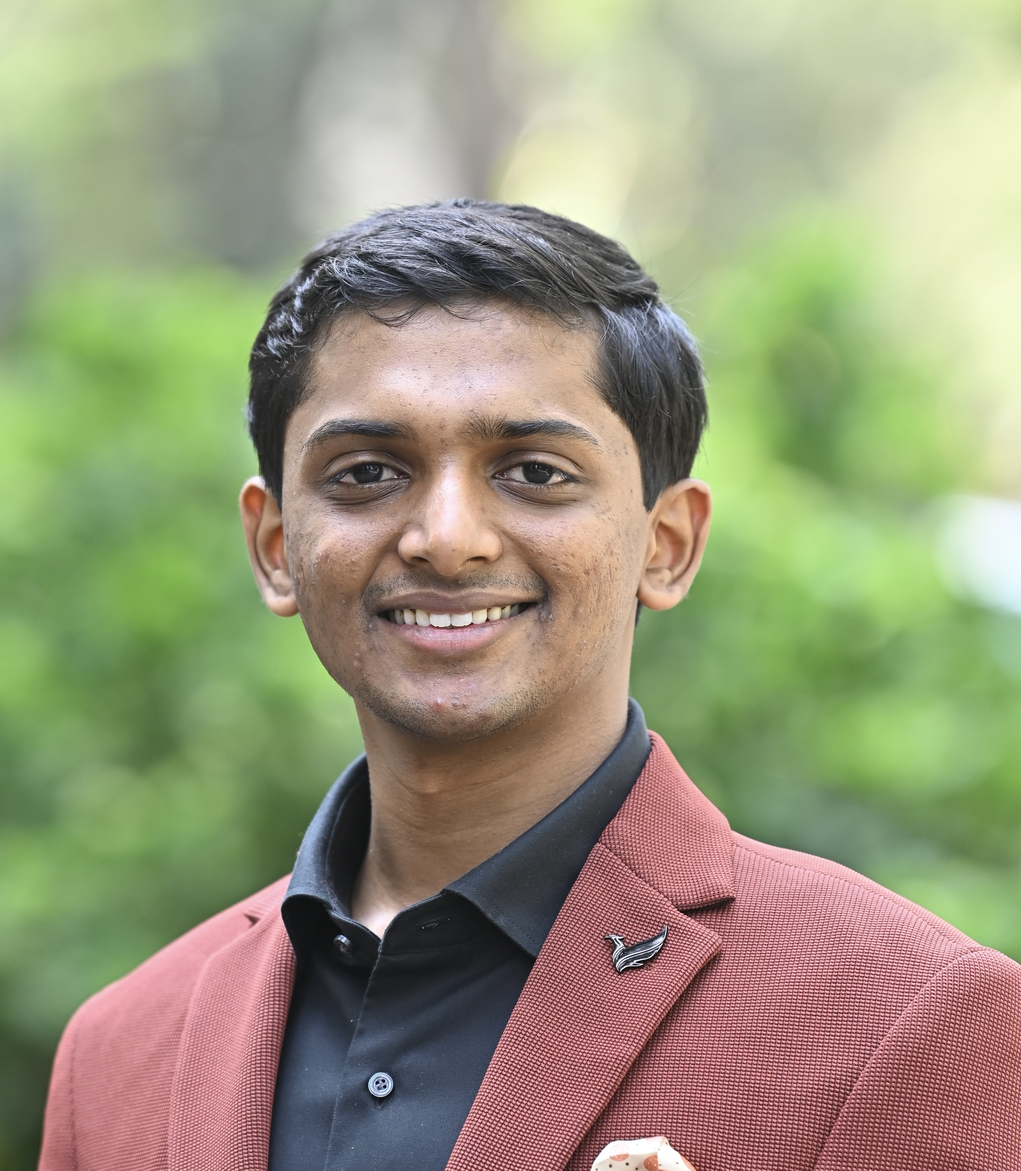
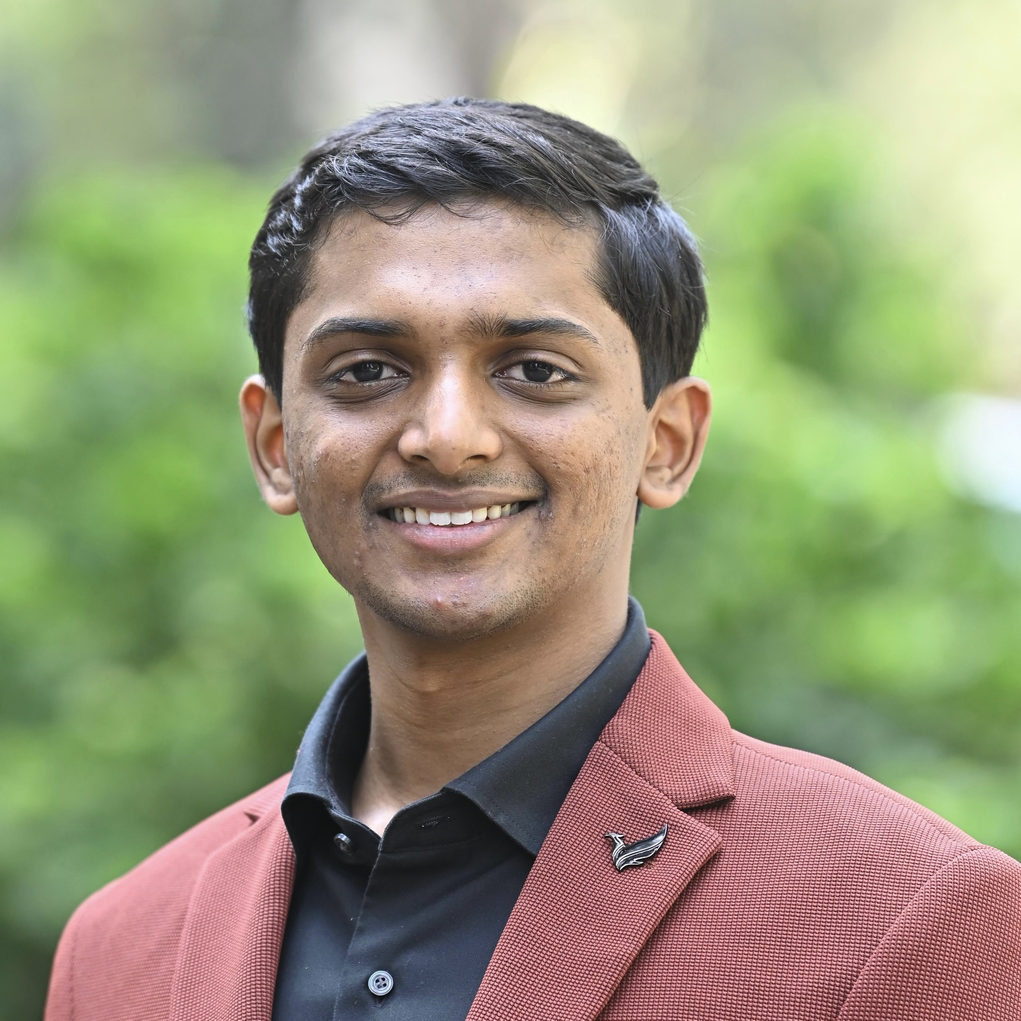
Update photo; footer; link for publication in cv; test to make content wider

diff --git a/_includes/footer.html b/_includes/footer.html
@@ -11,8 +11,10 @@
 	<div id="footer-right">
 		Atharva Bhagwat is a Computational Researcher at Tsankov Lab, Mount Sinai working on lung senescence.
 		<br>
-		Thanks to <a href="https://fredhohman.com" target="_blank">Fred Hohman</a> for the template.
 		<br>
-		<a href="https://www.flaticon.com/free-icons/t-cell" title="t cell icons">T cell icons created by Freepik - Flaticon</a>
+		<br>
+		<span class="footlink">
+		Template by <a class= href="https://fredhohman.com" target="_blank">Fred Hohman</a>, Favicon by <a href="https://www.flaticon.com/free-icons/t-cell" target="_blank">Freepik</a>
+		</span>
 	</div>
 </footer>

diff --git a/_includes/cv-social-link.html b/_includes/cv-social-link.html
@@ -5,7 +5,7 @@
 		{% if link.id != 'home' and link.id != 'email' %}target="_blank"{% endif %}
 		{% if link.id == 'email' %}
 		  class="copy-link" 
-		  data-tooltip="Copy" 
+		  data-tooltip="Copy email"
 		  onclick="copyText(this, '{{ link.description }}')"
 		{% endif %}
 	  >
@@ -18,7 +18,7 @@
 		{% if link.id != 'home' and link.id != 'email' %}target="_blank"{% endif %}
 		{% if link.id == 'email' %}
 		  class="copy-link" 
-		  data-tooltip="Copy" 
+		  data-tooltip="Copy email"
 		  onclick="copyText(this, '{{ link.description }}')"
 		{% endif %}
 	  >

diff --git a/_sass/_base.scss b/_sass/_base.scss
@@ -13,8 +13,14 @@ html, body {
   flex-direction: column;
 }
 
+// main {
+//   flex: 1;
+// }
 main {
-  flex: 1;
+  max-width: none;
+  width: 100%;
+  padding-left: 0.5rem;
+  padding-right: 0.5rem;
 }
 
 html {

diff --git a/styles.scss b/styles.scss
@@ -51,3 +51,11 @@
 .copy-link:hover::after {
     opacity: 1;
 }
+
+.footlink a {
+    font-size: 5px;
+    color: white;
+    font-weight: lighter;
+    font-style: italic;
+    text-decoration: underline;
+}

diff --git a/index.md b/index.md
@@ -9,7 +9,7 @@ title: Home
    <img id="intro-image" src="/images/portrait.jpg"></div>
   <div id="intro-title-text-wrapper">
    <h1 id="intro-title">Atharva Bhagwat</h1>
-   <div id="intro-subtitle">Computational Researcher at <a href="https://www.tsankovlab.org/" target='_blank'>Tsankov Lab</a></div>
+   <div id="intro-subtitle">Computational Researcher at <a href="https://www.tsankovlab.org/" target='_blank'>Tsankov Lab</a> at Mount Sinai</div>
    <div id="intro-title-socials">
     {% for link in site.data.social-links %}
      {% if link.on-homepage == true %}
@@ -23,7 +23,7 @@ title: Home
  <div id="everything-else" class="l-middle">
   <a href="{{ site.url }}/cv"><div><i class="fa fa-portrait icon icon-right-space"></i>CV</div></a>
   <a href="{{ site.url }}/projects"><div><i class="fa fa-shapes icon icon-right-space"></i>Projects</div></a>
-  <!-- <a href="{{ site.url }}/everything-else"><div><i class="fa fa-list-ul icon icon-right-space"></i>Everything Else</div></a> -->
+  <a href="{{ site.url }}/everything-else"><div><i class="fa fa-list-ul icon icon-right-space"></i>Everything Else</div></a>
  </div>
  <div>
 Hi! I'm currently exploring how cellular senescence impacts lung tissue using 10x Genomics Xenium spatial transcriptomics data, with the goal of uncovering key biological pathways that drive these processes.
@@ -36,7 +36,7 @@ Before academia, I was as a Machine Learning Engineer where I worked on anomaly 
 
 <hr class="l-middle home-hr">
 
-<h2 class="feature-title"><a href="/cv/#publications">Publications</a></h2>
+<h2 class="feature-title">Publications</h2>
 
 {% assign selectedBoolForBibtex = false %}
 {% assign journal = site.data.publications | where: 'type', "journal" %}
@@ -44,7 +44,7 @@ Before academia, I was as a Machine Learning Engineer where I worked on anomaly 
 {% include cv/publication.html pub=pub selectedBoolForBibtex=selectedBoolForBibtex %}
 {% endfor %}
 
-<h2 class="feature-title"><a href="/cv/#articles">Articles</a></h2>
+<h2 class="feature-title">Articles</h2>
 
 <div class="cover-wrapper cover-wrapper-3-col l-page">
  {% assign sortedArticles = site.data.articles | where: "featured", true %}

diff --git a/cv.md b/cv.md
@@ -67,13 +67,6 @@ I'm currently exploring how <b><span class="cv-vis">cellular senescence</span></
 {% include cv/publication.html pub=pub selectedBoolForBibtex=selectedBoolForBibtex %}
 {% endfor %}
 
-## Articles
-
-{% for article in site.data.articles %}
-{% unless article.feature-only %}
-{% include cv/article.html article=article %}
-{% endunless %} {% endfor %}
-
 ## Awards
 
 {% for award in site.data.awards %}
@@ -89,3 +82,11 @@ I'm currently exploring how <b><span class="cv-vis">cellular senescence</span></
 {:/}
 
 [cv]: {{ site.url }}/cv.pdf "My CV."
+
+<!-- ## Articles -->
+{% comment %}
+{% for article in site.data.articles %}
+{% unless article.feature-only %}
+{% include cv/article.html article=article %}
+{% endunless %} {% endfor %}
+{% endcomment %}

diff --git a/everything-else.md b/everything-else.md
@@ -1,0 +1,7 @@
+---
+layout: page
+title: Everything Else
+permalink: everything-else/
+---
+
+!!! 🚧 Work in progress 🚧 !!!
